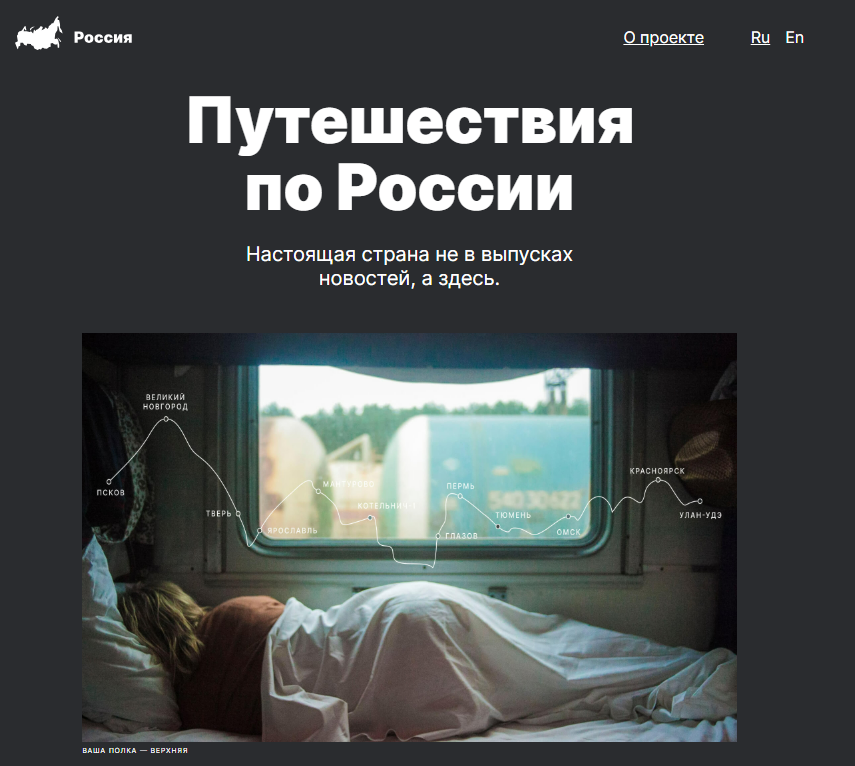
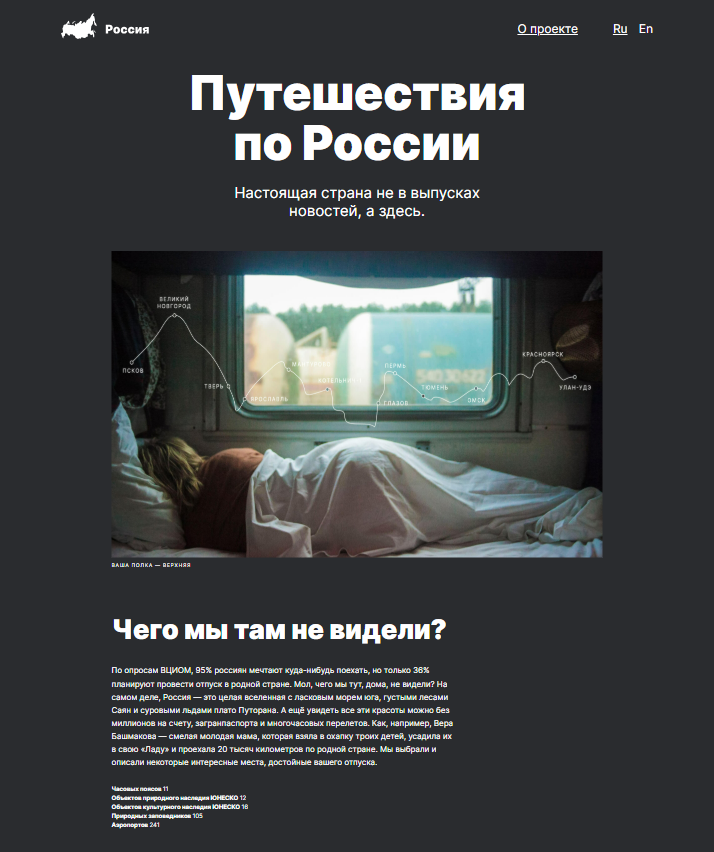
fix images

diff --git a/components/Footer.tsx b/components/Footer.tsx
@@ -7,7 +7,7 @@ const Footer = () => {
     <footer className="w-full mb-[100px] pb-10 md:mb-5" id="contact">
       <div className="flex mt-16 md:flex-row flex-col justify-between items-center">
         <p className="md:text-base text-sm md:font-normal font-light">
-          Copyright © 2025 Fedorov Sergey
+          2025 Fedorov Sergey
         </p>
 
         <div className="flex items-center md:gap-3 gap-6">

diff --git a/components/Home.tsx b/components/Home.tsx
@@ -38,7 +38,7 @@ const Hero = () => {
           <p className="text-cente md:tracking-wider md-4 text-sm md:text-lg lg:text-2xl">
             Hello. I&apos;m Sergey, a frontend developer.
           </p>
-          <Link href="#about">
+          <Link href="#projects">
             <TailwindButton
               title="Show my work"
               icon={<VscArrowRight />}
